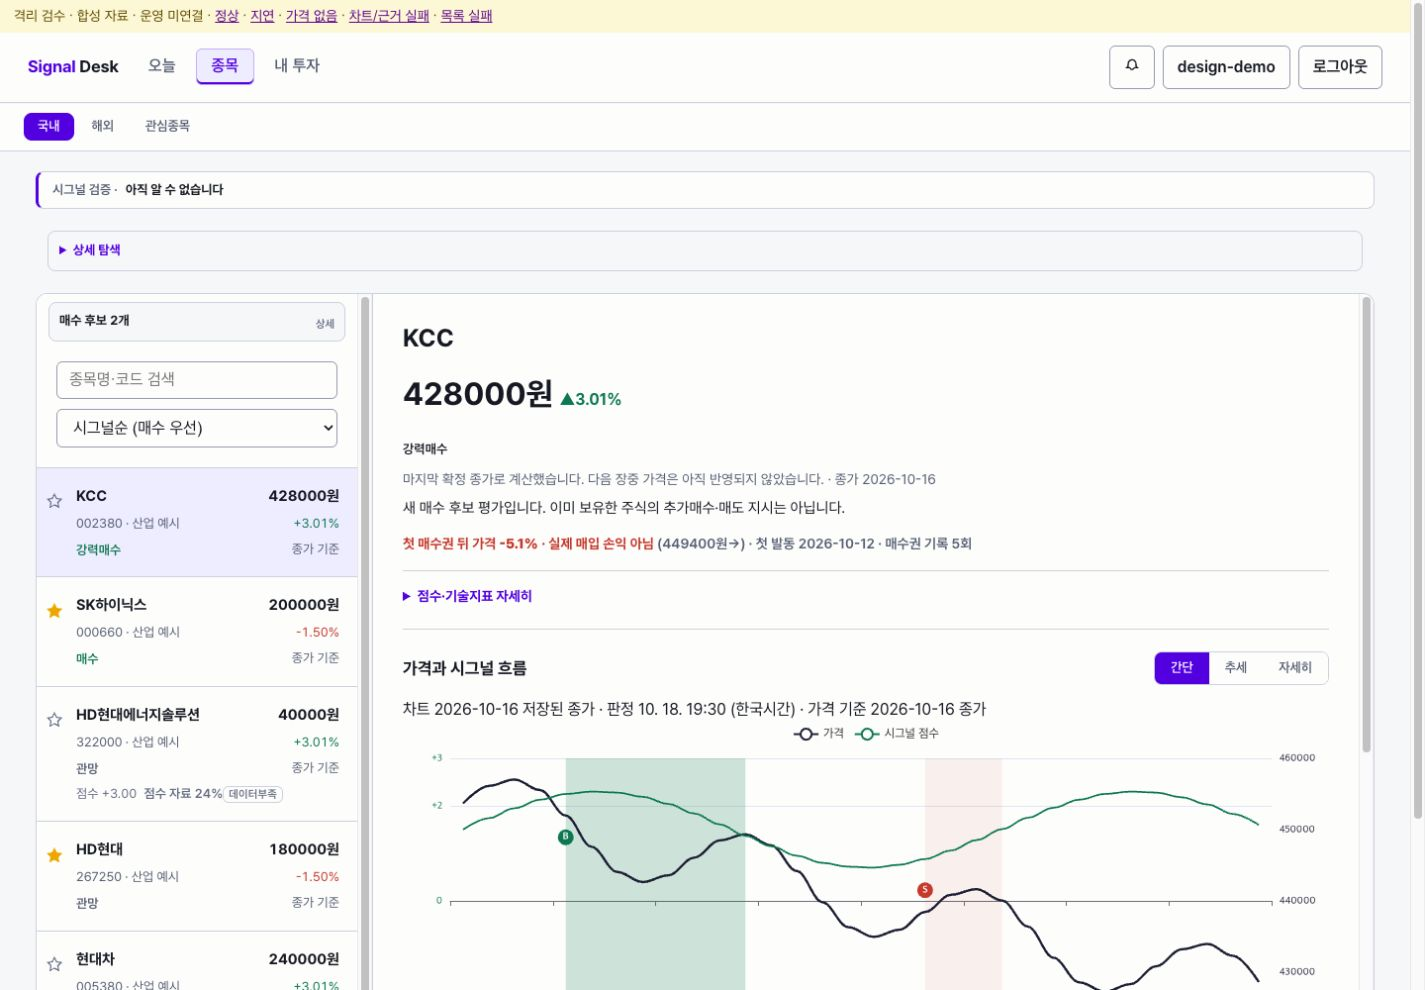
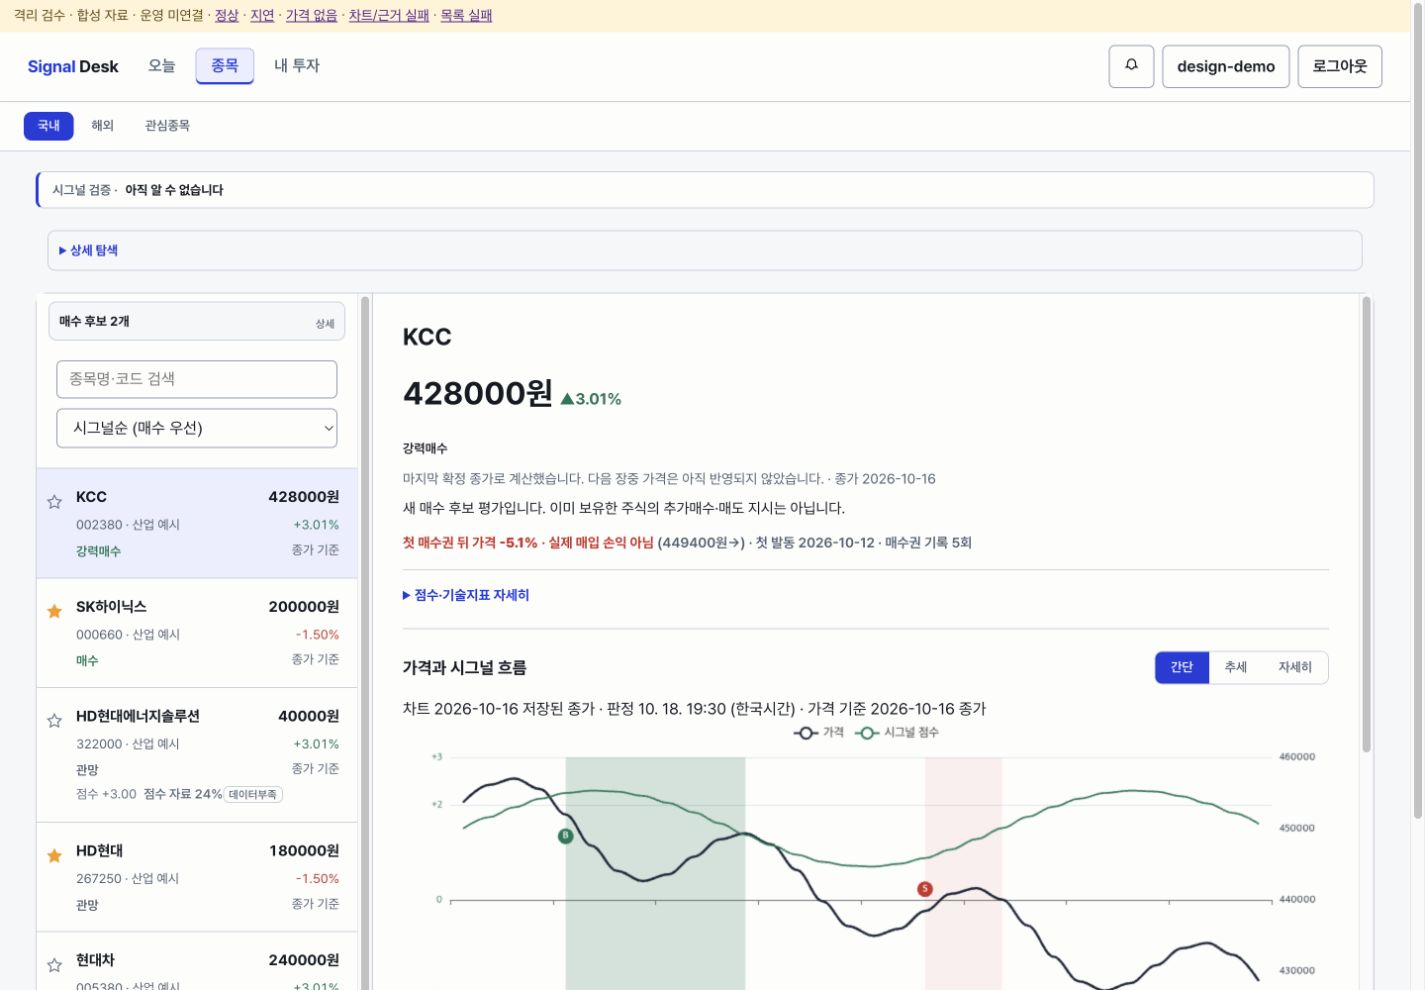
[SIG-26] fix: 기존 UI 척도와 구조 변경 회귀 검사 정합

diff --git a/src/signal_desk/web/index.html b/src/signal_desk/web/index.html
@@ -979,13 +979,13 @@
   #view-signal .hero-top { display:block; }
   #view-signal .hero-price { font-size:32px; }
   #view-signal .hero-signal { display:inline-block; margin-top:20px; background:none; border:0; padding:0; color:var(--txt); }
-  #view-signal .hero-price-note { margin:8px 0 0; padding:0; background:none; color:var(--dim); font-size:14px; font-weight:400; }
+  #view-signal .hero-price-note { margin:8px 0 0; padding:0; background:none; color:var(--dim); font-size:14px; font-weight:normal; }
   #view-signal .hero-price-note.is-stale { color:var(--sig-sell); font-weight:600; }
-  #view-signal .hero-reason { margin-top:8px; font-weight:400; }
-  #view-signal .hero-loss-note { background:none; padding:0; color:var(--sig-watch); font-weight:400; }
+  #view-signal .hero-reason { margin-top:8px; font-weight:normal; }
+  #view-signal .hero-loss-note { background:none; padding:0; color:var(--sig-watch); font-weight:normal; }
   #view-signal .hero-after { margin-top:12px; }
   #view-signal .hero-tech { margin-top:16px; padding-top:14px; }
-  #view-signal .pane-title-block #signal-chart-title { font-size:25px; outline:none; }
+  #view-signal .pane-title-block #signal-chart-title { font-size:24px; outline:none; }
   #view-signal .pane-title-block #signal-chart-title:focus-visible { outline:2px solid var(--accent); }
   #view-signal .sig-about.is-on { display:block; }
   #view-signal .sig-about summary { cursor:pointer; color:var(--dim); font-size:14px; }
@@ -1009,7 +1009,7 @@
     #view-signal .stock-back { display:inline-flex; align-self:flex-start; }
     #view-signal .sig-toolbar input, #view-signal .sig-toolbar select { font-size:16px; }
     #view-signal .stock-name { font-size:16px; }
-    #view-signal .pane-title-block #signal-chart-title { font-size:23px; }
+    #view-signal .pane-title-block #signal-chart-title { font-size:22px; }
   }
 </style>
 </head>

diff --git a/tests/test_redteam.py b/tests/test_redteam.py
@@ -2105,31 +2105,58 @@ def test_mobile_breakpoint_matches_between_css_and_js():
 
 
 def test_hidden_table_column_uses_display_none_not_zero_width():
-    """`<col>`을 폭 0으로 두면 fixed 레이아웃이 다음 열 몫을 그 0폭 열에 먹인다.
-
-    실측: col-sector `width:0` → 배지 셀 폭 **0** / `display:none` → **148** ✓.
-    폭 0일 때 `매수권밖`이 한 글자씩 세로로 쪼개졌다 — 에러가 아니라 이상한 모양으로만 렌더된다.
-    """
+    """새 목록은 별·본문 두 트랙만 예약한다. 숨은 섹터 열의 폭을 남기지 않는다."""
+    import re
     from pathlib import Path
 
     html = Path("src/signal_desk/web/index.html").read_text(encoding="utf-8")
-    fn = html.split("function applySigColWidths(", 1)[1].split("\n}", 1)[0]
-    assert "sector.style.display = narrow ? 'none' : ''" in fn, "섹터 열을 display로 접지 않는다"
-    # 폭 0으로 되돌아가는 회귀를 막는다.
-    assert "set('col-sector', narrow ? '0'" not in html
-    # 좁은 폭에서 남는 두 열이 100%를 나눠 가져야 한다(안 하면 30%가 죽은 공간으로 남는다).
-    assert "w.name / (w.name + w.sig) * 100" in fn
+    render = html.split("function renderSignalList(", 1)[1].split("// 좁은 카드의 보조 표", 1)[0]
+    assert '<ul class="stock-list"' in render and '<li class="stock-row"' in render
+    assert not re.search(r"<(?:table|colgroup|col|td|th)\b", render)
+    # 섹터는 본문 안 메타데이터이며 별도의 고정 폭 트랙이 아니다.
+    assert '<span class="stock-meta"><span>${esc(r.ticker)}${r.sector' in render
+    row = re.search(r"\.stock-row\s*\{([^}]+)\}", html).group(1)
+    assert "display:grid" in row and "grid-template-columns:36px minmax(0,1fr)" in row
+    name = re.search(r"\.stock-name\s*\{([^}]+)\}", html).group(1)
+    assert "min-width:0" in name and "overflow-wrap:anywhere" in name
+    price = re.search(r"\.stock-price\s*\{([^}]+)\}", html).group(1)
+    assert "white-space:nowrap" in price
 
 
 def test_signal_column_widths_recompute_on_resize():
-    """회전·창 크기 변경에 다시 계산하지 않으면 세로→가로 전환 후 깨진 채 남는다."""
+    """폭 전환은 기존 차트만 재측정한다. 선택·차트·요청 상태를 재생성하지 않는다."""
+    import shutil
+    import subprocess
     from pathlib import Path
 
     html = Path("src/signal_desk/web/index.html").read_text(encoding="utf-8")
-    # 리스너를 **하나만** 둔다 — 같은 일을 두 곳에서 시키면 하나를 고칠 때 다른 쪽이 남는다.
     assert html.count("window.addEventListener('resize'") == 1
-    blk = html.split("window.addEventListener('resize'", 1)[1][:900]
-    assert "applySigColWidths" in blk
+    if not shutil.which("node"):
+        pytest.skip("Node is needed for the stock workspace")
+    result = subprocess.run(["node", "-e", r"""
+const assert=require('node:assert/strict'),fs=require('fs'),vm=require('vm');
+const html=fs.readFileSync('src/signal_desk/web/index.html','utf8');
+const chart={resize(){calls.direct++;}},holder={},cache={ticker:'AAA'},item={kind:'BUY'};
+const calls={direct:0,laidOut:0},handlers={},mq={matches:true,addEventListener(k,fn){handlers.media=fn;}};
+const ctx=vm.createContext({window:{matchMedia:()=>mq,addEventListener(k,fn){handlers[k]=fn;}},
+  document:{getElementById:id=>id==='signal-chart'?holder:null},
+  _signalChart:chart,_selectedTicker:'AAA',_chartCache:cache,_signalItems:{AAA:item},
+  _botChart:null,_cycleChart:null,_gpChart:null,_heatCharts:{},_resizeT:null,
+  clearTimeout(){},setTimeout(fn){fn();return 1;},
+  _resizeWhenLaidOut(c,h){assert.equal(c,chart);assert.equal(h,holder);calls.laidOut++;}});
+let start=html.indexOf('const _SIG_STACKED_PX =');
+vm.runInContext(html.slice(start,html.indexOf('function backToSignalList(',start)),ctx);
+start=html.indexOf("window.addEventListener('resize'");
+vm.runInContext(html.slice(start,html.indexOf('\n});',start)+4),ctx);
+assert.equal(typeof handlers.media,'function');assert.equal(typeof handlers.resize,'function');
+for(const narrow of [false,true,false]){
+  mq.matches=narrow;handlers.media();handlers.resize();
+  assert.equal(ctx._selectedTicker,'AAA');assert.equal(ctx._signalChart,chart);
+  assert.equal(ctx._chartCache,cache);assert.equal(ctx._signalItems.AAA,item);
+}
+assert.equal(calls.direct,3);assert.equal(calls.laidOut,6);
+"""], text=True, capture_output=True, check=False)
+    assert result.returncode == 0, result.stderr
 
 
 def test_label_value_pairs_do_not_break_across_lines():

diff --git a/tests/test_trade_composition.py b/tests/test_trade_composition.py
@@ -142,10 +142,16 @@ def test_screen_shows_the_mix_and_the_order_without_a_research_return():
     assert 'id="investment-home"' in rebal
     block = src.split("목표가 가정은 아래 가격·지표", 1)[1].split("else heroEl.style.display", 1)[0]
     assert "hero-upside" not in block  # 손실 경고 앞에 목표 여력을 내지 않는다
-    assert "lossHtml" in block
+    assert "episodeLoss ? ' buy-with-loss'" in block
     inner = block.split("heroEl.innerHTML = ", 1)[1]
-    assert inner.index("${lossHtml}") < inner.index("hero-reason") < inner.index("${after}")
+    assert inner.index("hero-reason") < inner.index("${after}")
     assert inner.index("${after}") < inner.index("hero-tech") < inner.index("hero-metrics")
+    hero = src.split("function _paintSignalDetail(", 1)[1].split("const qEl =", 1)[0]
+    assert "ru < 0 ? 'hero-runup down'" in hero
+    assert "첫 매수권 뒤 가격" in hero and "실제 매입 손익 아님" in hero
+    assert "실제 체결 손익이 아니며" in hero
+    assert "새 매수 후보 평가입니다. 이미 보유한 주식의 추가매수·매도 지시는 아닙니다." in hero
+    assert "hero-upside" not in hero and "참고 목표가" not in hero
     assert "당시 메모" in src and "연구 순서 · 주문에 연결되어 있지 않습니다" in src
     perf_fn = src.split("function loadBotPerformance", 1)[1].split("\nfunction ", 1)[0]
     assert "ex != null && (d.excluded_non_sessions" in perf_fn

diff --git a/.impeccable/surfaces/src-signal-desk-web-index-html.md b/.impeccable/surfaces/src-signal-desk-web-index-html.md
@@ -44,5 +44,6 @@ related_targets: []
 - 독립 리뷰에서 개요 정보 소실, 요약 재조회로 상세 정보 소실, 모바일 목록 강제 이탈을 찾아 수정했다. 상세는 같은 캐시일 때 보존하고 새 응답일 때 현재 화면/포커스를 유지한 채 다시 조회한다. 마감 리뷰 판정은 ship이며 일반 독립 리뷰어로 전용 유형을 대체했다. 리뷰어가 브라우저·pytest·CI를 직접 실행한 것은 아니다.
 - Impeccable 검사에서 단일 HTML 전체의 기존 dialog/온보딩/클리핑/장식 등 경고가 남았다. 전체 경고 0이나 접근성 인증을 주장하지 않는다. 이번 작업대의 불필요한 overflow clipping은 제거했고 범위 밖 공통 정합은 PD5/PD6에서 다룬다. 전역 DESIGN.md를 부수적으로 재작성하지 않는다.
 - 핵심 차트 계산/그리기 본체, API·엔진·순위·연구·주문은 변경하지 않았다. PD1 가격만 표시한 예시가 운영 기능 축소로 이어지지 않도록 실제 전체 차트를 인수 조건으로 고정했다.
+- 첫 전체 CI에서 기존 표 열 구현에 묶인 검사2개·글자 척도·옛 손실 HTML 식별자 검사가 실패했다. 표를 되살리거나 검사 허용치를 늘리지 않고 실제 새 구조/손실 구분 계약으로 갱신했다. 제목은 기존24/22px 척도로 복원하고 일반 두께는 `normal`로 표현했다. 추가 검수는 관련 **77 passed**이며 전체 CI는 새 HEAD로 다시 확인한다. 척도 오류 수정 뒤 최종3캡처를 갱신했다.
 
 진행: SIG-26 구현·로컬 검수 완료. 정확한 PR HEAD CI·머지·운영 배포 확인은 전달 기록에 따로 남긴다. 소유자 수용은 아직 미확인이다. PD1의 완료1/6을 구현만으로 수용2/6으로 올리지 않는다. 통합 **40% 유지**.

diff --git a/docs/PRODUCT-DESIGN-PD2-2026-10-18.md b/docs/PRODUCT-DESIGN-PD2-2026-10-18.md
@@ -37,5 +37,6 @@
 - 독립 리뷰에서 개요 정보 소실, 요약 재조회로 상세 정보 소실, 모바일 목록 강제 이탈을 찾아 수정했다. 상세는 같은 캐시일 때 보존하고 새 응답일 때 현재 화면/포커스를 유지한 채 다시 조회한다. 마감 리뷰 판정은 ship이며 일반 독립 리뷰어로 전용 유형을 대체했다. 리뷰어가 브라우저·pytest·CI를 직접 실행한 것은 아니다.
 - Impeccable 검사에서 단일 HTML 전체의 기존 dialog/온보딩/클리핑/장식 등 경고가 남았다. 전체 경고 0이나 접근성 인증을 주장하지 않는다. 이번 작업대의 불필요한 overflow clipping은 제거했고 범위 밖 공통 정합은 PD5/PD6에서 다룬다. 전역 DESIGN.md를 부수적으로 재작성하지 않는다.
 - 핵심 차트 계산/그리기 본체, API·엔진·순위·연구·주문은 변경하지 않았다. PD1 가격만 표시한 예시가 운영 기능 축소로 이어지지 않도록 실제 전체 차트를 인수 조건으로 고정했다.
+- 첫 전체 CI에서 기존 표 열 구현에 묶인 검사2개·글자 척도·옛 손실 HTML 식별자 검사가 실패했다. 표를 되살리거나 검사 허용치를 늘리지 않고 실제 새 구조/손실 구분 계약으로 갱신했다. 제목은 기존24/22px 척도로 복원하고 일반 두께는 `normal`로 표현했다. 추가 검수는 관련 **77 passed**이며 전체 CI는 새 HEAD로 다시 확인한다. 척도 오류 수정 뒤 최종3캡처를 갱신했다.
 
 진행: SIG-26 구현·로컬 검수 완료. 정확한 PR HEAD CI·머지·운영 배포 확인은 전달 기록에 따로 남긴다. 소유자 수용은 아직 미확인이다. PD1의 완료1/6을 구현만으로 수용2/6으로 올리지 않는다. 통합 **40% 유지**.
